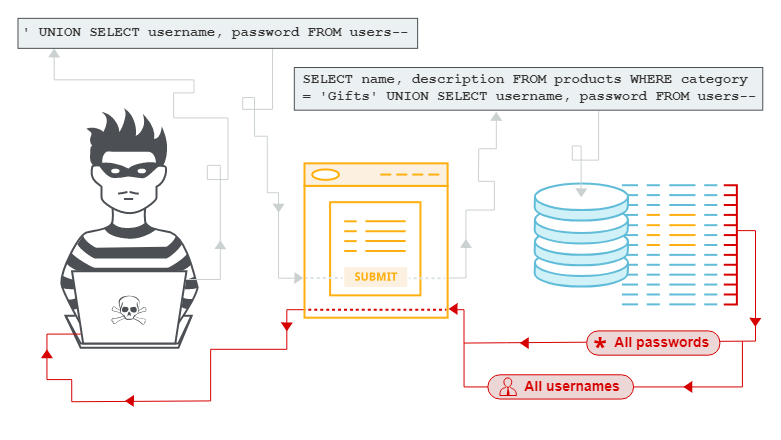
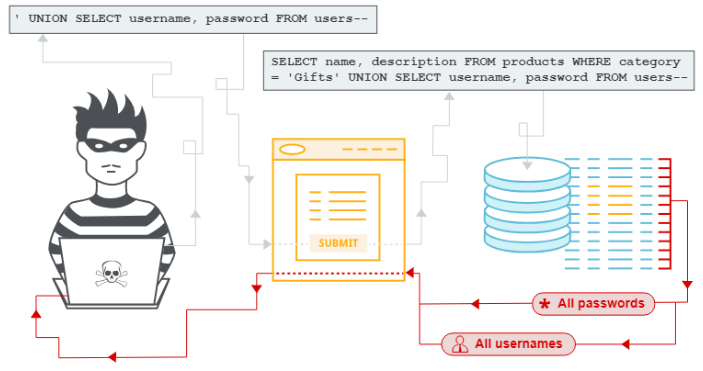
-

diff --git a/SQLi/README.md b/SQLi/README.md
@@ -19,7 +19,15 @@ Ahora bien, la cruda realidad nos demuestra que debemos considerar la responsabi
 
 - Administradores de sistemas: Deben mantener actualizados los sistemas y aplicaciones e implementar medidas de seguridad en capas (firewalls, IDS/IPS o SIEM) para prevenir y detectar posibles ataques.
 
-- Usuarios finales: Aunque su responsabilidad es <b>indirecta</b>, los usuarios finales deberían adoptar buenas prácticas de seguridad, como usar contraseñas seguras (en longitud y tipo), ademásw de estar alerta ante posibles signos de actividad maliciosa en sitios web o aplicaciones.
+- Usuarios finales: Aunque su responsabilidad es <b>indirecta</b>, los usuarios finales deberían adoptar buenas prácticas de seguridad, como usar contraseñas seguras (en longitud y tipo), además de estar alerta ante posibles signos de actividad maliciosa en sitios web o aplicaciones.
+
+<p align="center">
+<picture>
+  <source media="(prefers-color-scheme: dark)" srcset="images/inyeccion-sql_1.png">
+  <source media="(prefers-color-scheme: light)" srcset="images/inyeccion-sql_1.png">
+  <img alt="Hacking_Labs, más allá de la Ciberseguridad" src="images/inyeccion-sql_1.png" width="50%">
+</picture>
+</p>
 
 > El funcionamiento consta de las siguientes fases:
   - <b>Identificación de la vulnerabilidad</b>: El atacante examina la aplicación web en busca de campos de entrada que puedan estar conectados a una base de datos y que puedan ser vulnerables a la inyección SQL, los cuales pueden ser cualquiera de los campos que tenemos disponibles en websites y aplicaciones web, como formularios de búsqueda, campos de inicio de sesión, parámetros de URL, entre otros.
@@ -30,6 +38,5 @@ Ahora bien, la cruda realidad nos demuestra que debemos considerar la responsabi
   
   - <b>Manipulación de la base de datos</b>: Dependiendo de la naturaleza del código SQL malicioso utilizado, el resultado del ataque puede variar desde permitir al atacante extraer información confidencial de la base de datos, modificar o eliminar datos, o incluso tomar el control total del sistema...
   
-  -<b>Exfiltración de datos</b>: Después de realizar el ataque de inyección SQL con éxito, el atacante puede <b>exfiltrar</b> los datos obtenidos de la base de datos a través de la misma aplicación web o de otros métodos (descarga de archivos o visualización de información en pantalla). En este momento, cualquier herramienta es válida para conseguir la información deseada.
+  - <b>Exfiltración de datos</b>: Después de realizar el ataque de inyección SQL con éxito, el atacante puede <b>exfiltrar</b> los datos obtenidos de la base de datos a través de la misma aplicación web o de otros métodos (descarga de archivos o visualización de información en pantalla). En este momento, cualquier herramienta es válida para conseguir la información deseada.
 
-  
